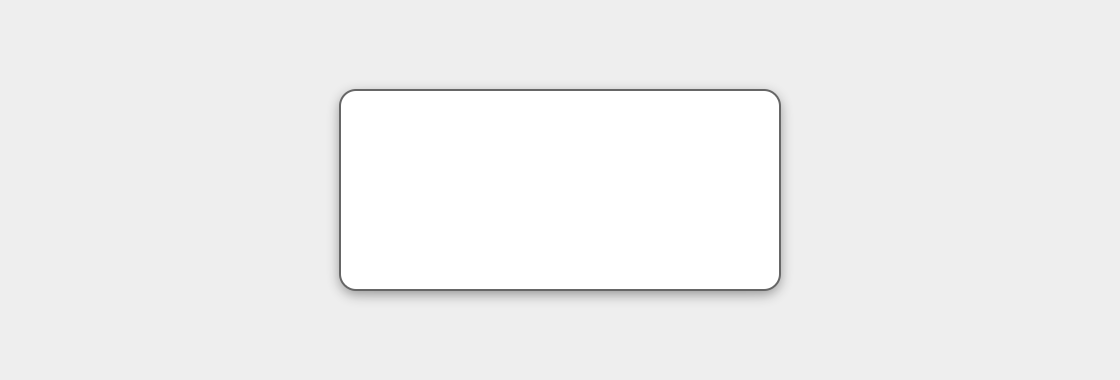
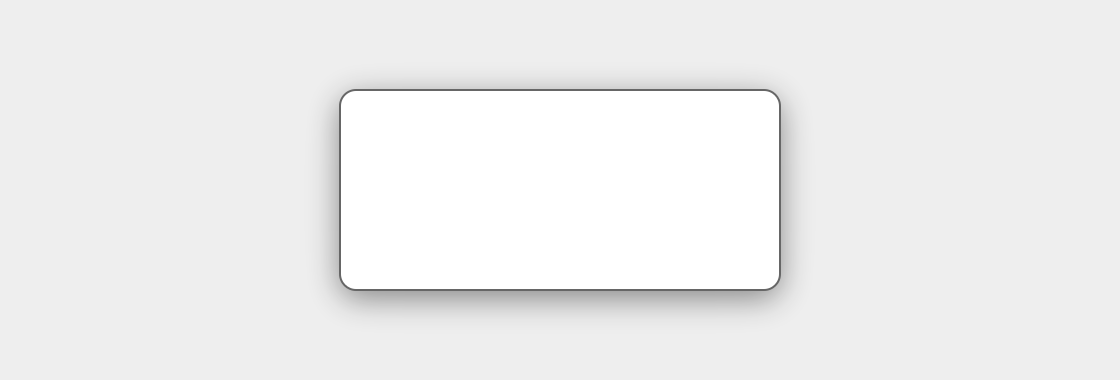
Widen the shadow in the Styles example

Changed region(s): [[0.3125, 0.7816, 0.6875, 0.8395]]

diff --git a/test/canvas_styles_page_test.cpp b/test/canvas_styles_page_test.cpp
@@ -1386,7 +1386,7 @@ namespace
 
       {
          auto s = cnv.new_state();
-         cnv.shadow_style({0, 2}, 6, colors::black.opacity(0.4));
+         cnv.shadow_style({0, 4}, 16, colors::black.opacity(0.45));
          cnv.fill_style(colors::white);
          cnv.fill_round_rect(panel, 8);
       }
@@ -1426,9 +1426,12 @@ TEST_CASE("canvas styles: example figure", "[styles]")
    };
    CHECK(at(280, 90) > 250);                 // the panel is white
    CHECK(at(20, 90) == Approx(238).margin(2));   // the ground is untouched
-   // The shadow is offset down by 2, so it darkens the ground just under
-   // the panel and not the same distance above it.
-   CHECK(at(280, 150) < 230);
-   CHECK(at(280, 38) > 235);
+   // The shadow is offset downward, so the ground just below the panel is
+   // darkened and the ground the same distance above it is darker by less
+   // or not at all. How far the blur reaches above differs by backend, so
+   // only the asymmetry is asserted, not a value there.
+   CHECK(at(280, 157) < at(20, 157) - 4);
+   CHECK(at(280, 157) < at(280, 33));
+   CHECK(at(20, 157) == Approx(238).margin(2));
 #endif
 }
